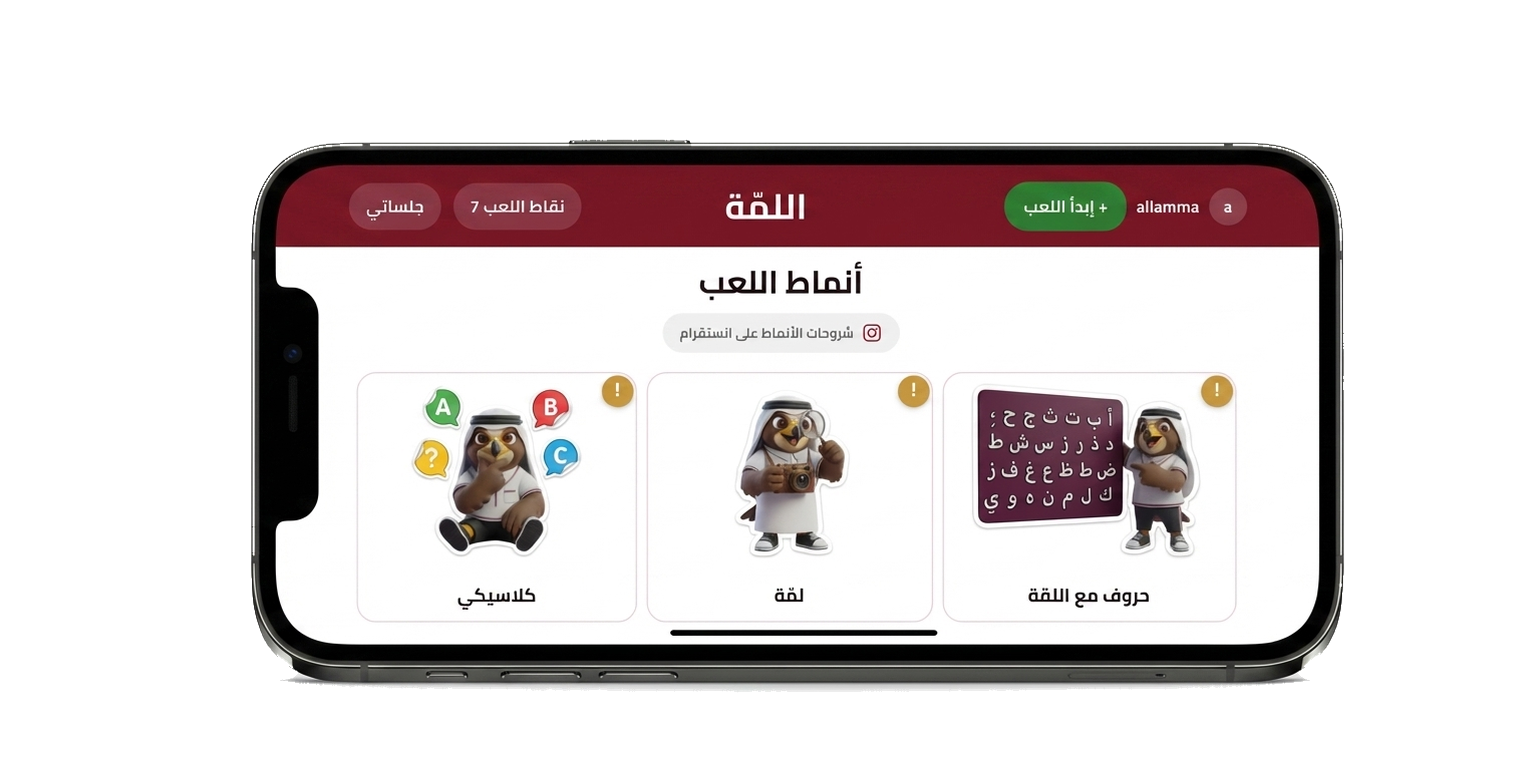
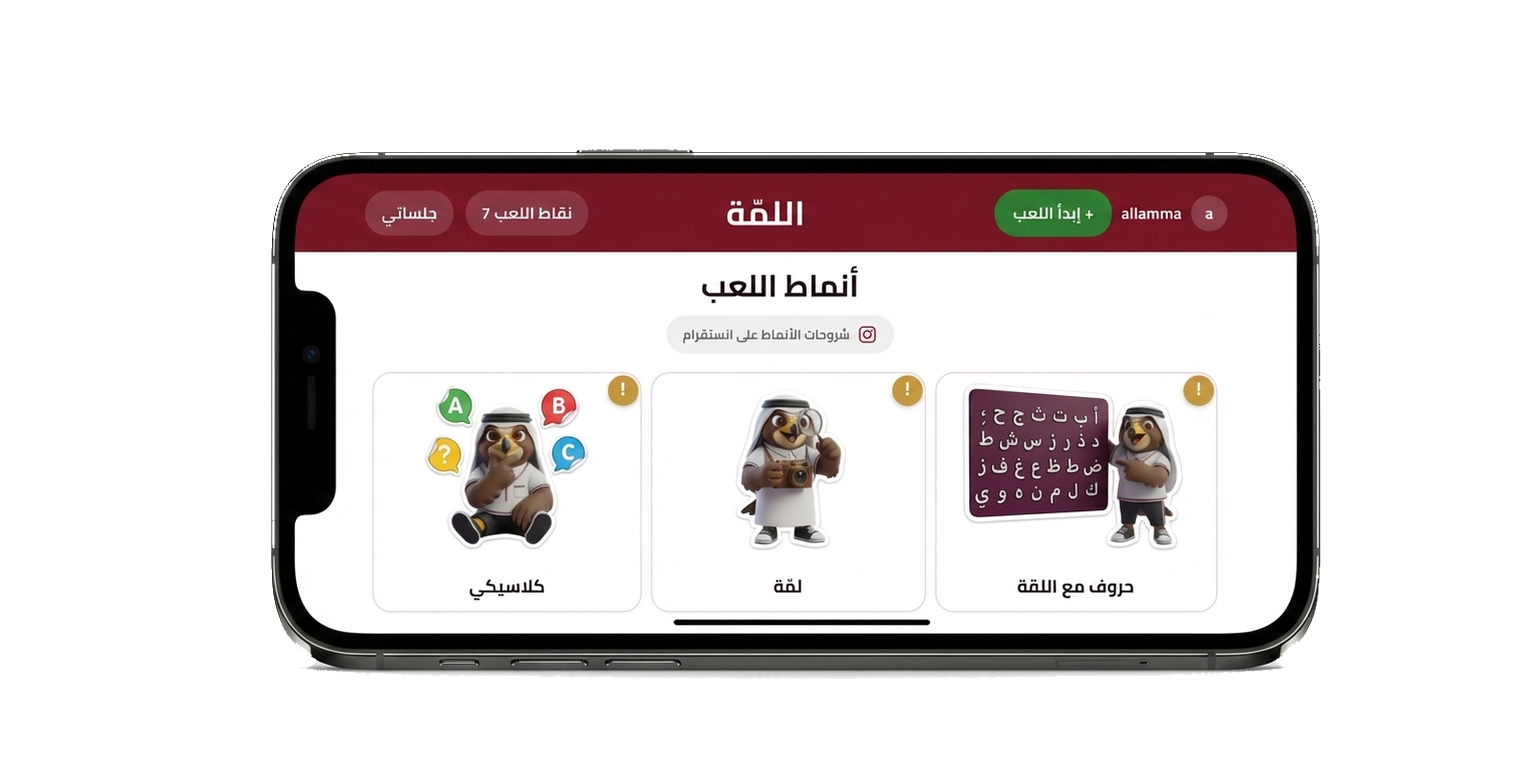
Re-normalize all screenshots (tighter 1050px) + cache bust v=2

diff --git a/index.html b/index.html
@@ -391,15 +391,15 @@ footer{background:#fff;padding:48px 24px;text-align:center;border-top:1px solid 
     <div class="sec-sub rv">اسحب لمشاهدة المزيد</div>
     <div class="ss-wrap rv">
       <div class="ss-track" id="ssTrack">
-        <div class="ss-slide"><img src="ss1.png" alt="عن اللعبة"></div>
-        <div class="ss-slide"><img src="ss2.png" alt="أنماط اللعب"></div>
-        <div class="ss-slide"><img src="ss3.png" alt="فئات جديدة"></div>
-        <div class="ss-slide"><img src="ss4.png" alt="لوحة الأسئلة"></div>
-        <div class="ss-slide"><img src="ss5.png" alt="نمط حروف"></div>
-        <div class="ss-slide"><img src="ss6.png" alt="قوانين اللعبة"></div>
-        <div class="ss-slide"><img src="ss7.png" alt="نمط حروف"></div>
-        <div class="ss-slide"><img src="ss8.png" alt="نمط رسم"></div>
-        <div class="ss-slide"><img src="ss9.png" alt="نتيجة اللعبة"></div>
+        <div class="ss-slide"><img src="ss1.png?v=2" alt="عن اللعبة"></div>
+        <div class="ss-slide"><img src="ss2.png?v=2" alt="أنماط اللعب"></div>
+        <div class="ss-slide"><img src="ss3.png?v=2" alt="فئات جديدة"></div>
+        <div class="ss-slide"><img src="ss4.png?v=2" alt="لوحة الأسئلة"></div>
+        <div class="ss-slide"><img src="ss5.png?v=2" alt="نمط حروف"></div>
+        <div class="ss-slide"><img src="ss6.png?v=2" alt="قوانين اللعبة"></div>
+        <div class="ss-slide"><img src="ss7.png?v=2" alt="نمط حروف"></div>
+        <div class="ss-slide"><img src="ss8.png?v=2" alt="نمط رسم"></div>
+        <div class="ss-slide"><img src="ss9.png?v=2" alt="نتيجة اللعبة"></div>
       </div>
       <button class="ss-arrow ss-prev" onclick="ssScroll(1)">›</button>
       <button class="ss-arrow ss-next" onclick="ssScroll(-1)">‹</button>
